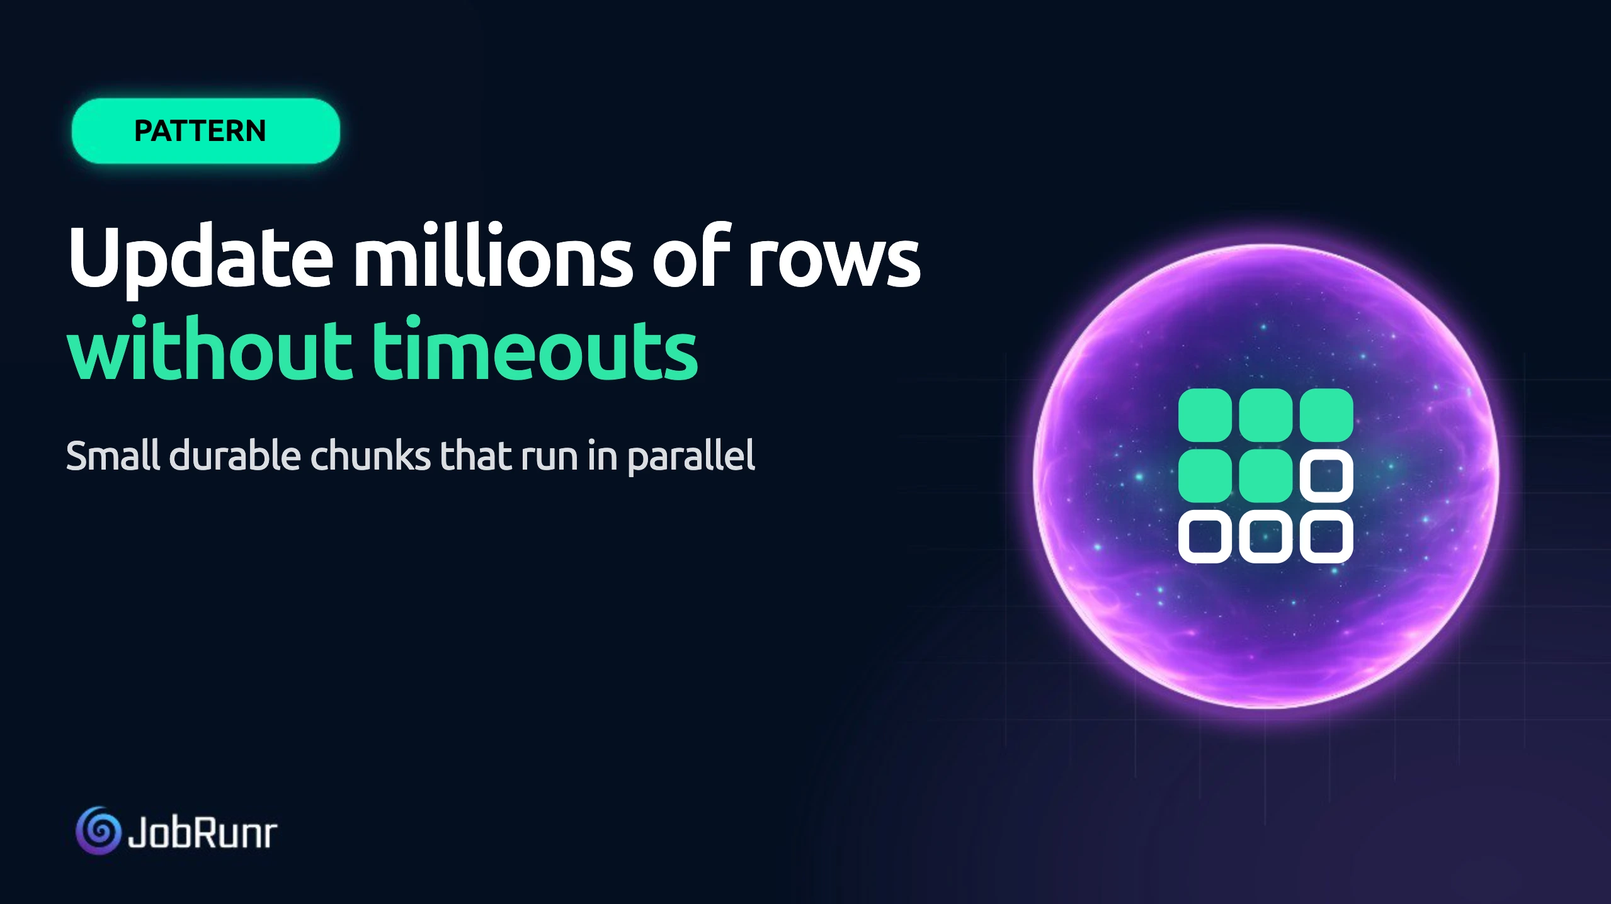
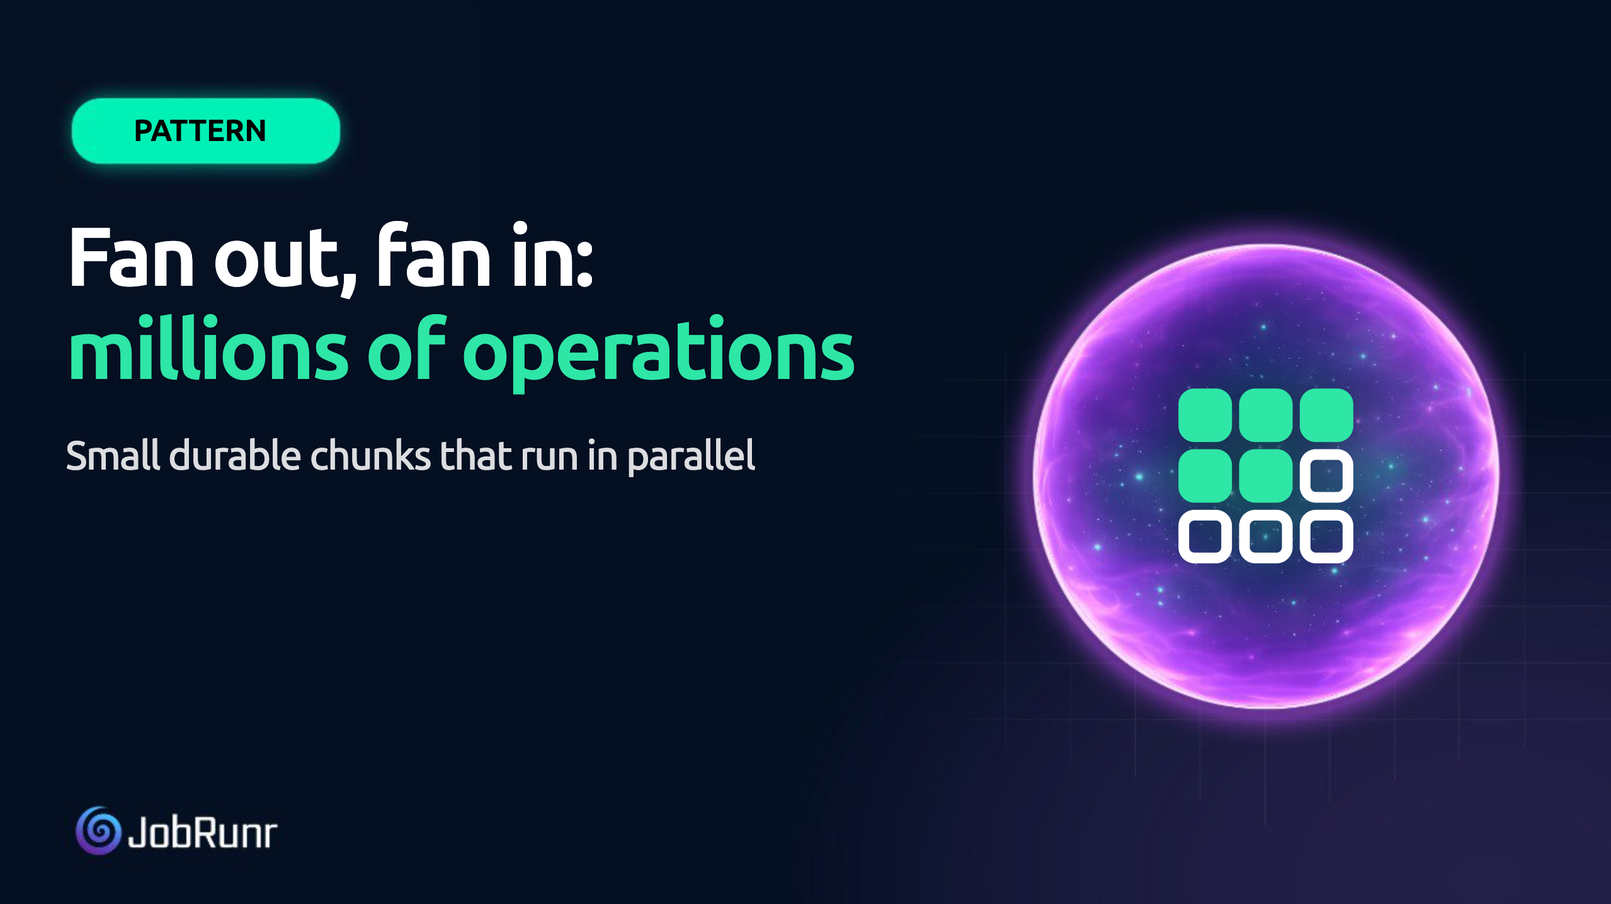
Use cases: rework the three pattern pages (generic titles, challenge as requirements, build-it-yourself with code, benefits list) and new fan out header image

Changed region(s): [[0.0309, 0.2451, 0.5868, 0.429], [0.1235, 0.1226, 0.1544, 0.1532]]

diff --git a/content/english/use-case/pattern-100000-schedules.md b/content/english/use-case/pattern-100000-schedules.md
@@ -1,5 +1,5 @@
 ---
-title: "How to Run 100,000 Customer Schedules That Survive a Server Crash"
+title: "Customer-Defined Recurring Jobs, Created at Runtime"
 author: "Nicholas D'hondt"
 image: /use-case/pattern-recurring-schedules.webp
 summary: "Your customers want their own schedules: a firmware check every hour, a maintenance run every Monday. This pattern stores every schedule in your database, lets one instance plan and all instances work, and keeps going when a server dies."
@@ -11,22 +11,22 @@ tags:
   - use-case
   - pattern
 ---
-> "I need to have 100,000 different schedules for things to happen at regular intervals."
+> "Customer-Defined Recurring Jobs, Created at Runtime"
 
 Sometimes the sentence sounds different. "I need a scheduling engine inside my product for my customers' maintenance schedules." "I need to push firmware and security updates to millions of devices." "I need to defrost the fridges at midnight." In each case, the schedule is data that changes while the application runs.
 
-## The Challenge
+## The challenge
 
-A scheduled thread pool in the JVM works well for tasks you know when you write the code. So does `@Scheduled` in Spring. The number of tasks is not the limit. Both stop working when the schedules belong to your customers, each in its own way:
+A schedule in your code is a fixed thing. You write it once, it ships with the release, and it is the same on every server. A schedule that belongs to a customer is data. Someone creates it on a Tuesday afternoon, changes it a week later and deletes it when the contract ends, all while the application keeps running.
 
-- A scheduled thread pool accepts new tasks at runtime, but it only understands fixed rates and delays. There's no cron syntax and no time zones, so "every day at 9 for a customer in Sydney" is math you do yourself, and daylight saving time breaks it twice a year anyway.
-- Spring's `@Scheduled` supports cron expressions and a time zone, but both are written on an annotation in your code. Your customers can't add a schedule at runtime. You can register tasks with `TaskScheduler` instead, and then you're back to keeping the schedules yourself.
+That changes what the scheduler has to do:
 
-The rest they share:
+- **It has to remember.** A schedule that only lives in memory is gone after a restart or a deployment. Nobody notices until the fridges were not defrosted.
+- **It has to run once.** You run more than one instance, and every instance knows every schedule. With three instances, the customer gets three text messages unless something decides who goes first.
+- **It has to survive crashes.** When an instance crashes, another instance has to pick up its work. Only the run that was interrupted should be done again, not everything else that was handled in the same loop.
+- **It has to understand local time.** "Every day at 9" means 9 in Sydney for one customer and 9 in Brussels for the next, and both shift when daylight saving time starts or ends.
 
-- The schedules live in memory. When the server dies, they are gone, and something has to register them again. Nobody notices until the fridges were not defrosted.
-- Every instance runs every schedule. With three instances, the customer gets three text messages.
-
+Each of these is solvable. The hard part is that they have to hold at the same time, for every schedule, while customers keep changing them.
 
 ## The pattern
 
@@ -53,11 +53,72 @@ public void removeSchedule(String customerId) {
 }
 ```
 
-Because every run is a normal job, it gets the rest for free: retries, a history, and a place in the dashboard. A run that has to reach a million devices can use the [fan out pattern]({{< ref "use-case/pattern-update-millions-of-rows.md" >}}) to split the work.
+A scheduler that only fires a trigger leaves the rest to you. Here every run is a normal job, so each one comes with more than a start time:
+
+- **Retries.** A run that throws an exception is retried automatically, 10 times by default, with exponential back-off. You can [configure the number of retries]({{< ref "documentation/background-methods/dealing-with-exceptions.md#how-to-configure-the-amount-of-retries" >}}).
+- **A dashboard that shows what happened.** JobRunr ships with a [built-in dashboard]({{< ref "documentation/background-methods/dashboard.md" >}}). It lists every schedule and every run, and for each run its state, its attempts and its exceptions. When a firmware update fails, or a server crashes halfway, you open the dashboard and see that the update never happened, for which customer, and why. A run that is out of retries stays in the dashboard as failed until someone retries or deletes it from there. With Pro you can also send job traces to your observability platform through [OpenTelemetry]({{< ref "guides/advanced/observability-tracing.md" >}}) and alert on failures there.
+- **Recovery after a crash.** A run that was busy on an instance that died is picked up by another instance. Nobody has to find out by hand what was running at that moment.
+- **Resuming where it stopped.** A plain loop over a million devices has no memory. When the server crashes at device 600,000, nothing knows where it stopped, so you run the whole loop again or you guess. With the [fan out pattern]({{< ref "use-case/pattern-update-millions-of-rows.md" >}}) the run creates one small job per chunk of devices, and only the chunks that were interrupted are done again. Inside a single job, [durable steps]({{< ref "use-case/pattern-never-charge-twice.md" >}}) skip the steps that already finished.
 
 ## What goes wrong when you build it yourself
 
-You move the schedules to a table and write a loop that checks what is due. Now you need to decide which instance runs that loop, and what happens when that instance disappears. You need to make sure a run is never started twice. You need to decide what happens when a run takes longer than its interval. The architecture works on the whiteboard and then needs a lot of tuning in production.
+Most teams start with what the JVM or the framework already offers. Each option solves one part and leaves the rest to you.
+
+### A scheduled thread pool
+
+```java
+executor.scheduleAtFixedRate(
+    () -> firmwareService.checkAndPush(customerId),
+    delayUntilNineInSydney(), 24, TimeUnit.HOURS);
+```
+
+A `ScheduledExecutorService` accepts new tasks at runtime, and the number of tasks is not the limit. But it only understands fixed rates and delays. There is no cron syntax and no time zone, so "every day at 9 for a customer in Sydney" is math you do yourself. A fixed period of 24 hours also drifts: after a daylight saving change the task runs at 8 or at 10.
+
+### Spring's `@Scheduled`
+
+```java
+@Scheduled(cron = "0 0 9 * * *", zone = "Australia/Sydney")
+public void checkFirmware() {
+    firmwareService.checkAndPush("customer-42");
+}
+```
+
+`@Scheduled` gives you cron expressions and a time zone. Both are written on an annotation, so they are fixed when the application starts. A customer cannot add a schedule from your product, and you cannot write one method per customer.
+
+### `TaskScheduler` and a map
+
+```java
+ScheduledFuture<?> future = taskScheduler.schedule(
+    () -> firmwareService.checkAndPush(customerId),
+    new CronTrigger(cron, zone));
+schedules.put(customerId, future);
+```
+
+With Spring's `TaskScheduler` you get cron, time zones and registration at runtime. Now you are keeping the schedules yourself. The map lives in memory, so after a restart something has to register every schedule again. And every instance holds the same map, so every instance runs every schedule.
+
+### A table and a polling loop
+
+So you move the schedules to a table and write a loop that checks what is due:
+
+```java
+@Scheduled(fixedDelay = 5000)
+public void runDueSchedules() {
+    for (Schedule schedule : scheduleRepository.findDue(Instant.now())) {
+        firmwareService.checkAndPush(schedule.getCustomerId());
+        schedule.setNextRun(nextRunOf(schedule));
+        scheduleRepository.save(schedule);
+    }
+}
+```
+
+The schedules now survive a restart. The loop raises new questions:
+
+- Which instance runs the loop? If all of them do, two instances find the same due schedule and both run it.
+- What happens when that instance disappears? If only one runs the loop, nothing is planned until someone notices.
+- What if the server dies between the work and the `save`? After the restart the schedule is still due, so it runs again.
+- What if one run takes ten minutes? Every schedule behind it in the loop waits, and the next tick may pick up the same schedule while it is still busy.
+
+The architecture works on the whiteboard and then needs a lot of tuning in production.
 
 If you need more than a scheduled thread pool, use a library that already handled those cases.
 

diff --git a/content/english/use-case/pattern-never-charge-twice.md b/content/english/use-case/pattern-never-charge-twice.md
@@ -1,12 +1,12 @@
 ---
-title: "How to Never Charge a Customer Twice When a Server Crashes"
+title: "Multi-Step Jobs That Resume After a Crash"
 author: "Nicholas D'hondt"
 image: /use-case/pattern-crash-recovery.webp
 summary: "A payment job charges the customer, then the server dies before the next step. This pattern stores every completed step in your own database, so another server resumes the job at the step that did not finish."
 description: "An architecture pattern for crash recovery in Java: durable jobs with steps that are stored in your database, so work resumes after an outage without repeating what already succeeded."
 date: 2026-11-12T16:10:00+01:00
 draft: true
-# TODO before publish: 'who runs this' needs a confirmed customer (workshop only had a guess, a prospect showed interest), flip draft.
+# TODO before publish: flip draft.
 tags:
   - use-case
   - pattern
@@ -15,13 +15,18 @@ tags:
 
 The same problem shows up outside payments. After an outage, the system has to recover quickly and continue processing. Work that was running on the server that died has to be picked up by another one. And nobody should have to check by hand what did and did not happen.
 
-## The Challenge
+## The challenge
 
 A real job does more than one thing. It charges the customer, updates the ledger and pays out the merchant. As Murphy's law dictates, the crash will not happen once all your steps are done. It will happen somewhere between charging the customer and paying out the merchant.
 
-A plain background thread makes it worse. Its lifetime is tied to the application, so when the application crashes, the work is gone and nothing remembers it existed.
-
 After the crash you have two bad options. If you run the job again from the top, the customer pays twice. If you do not run it again, the merchant never gets paid.
+
+Getting out of that takes four things:
+
+- **It has to remember the job.** The job has to exist outside the server that runs it. Otherwise the crash takes the job with it.
+- **It has to remember progress.** Knowing that the job exists is not enough. Which steps finished has to be recorded too.
+- **It has to notice the crash.** A dead server does not report that it died. Something else has to see that it went quiet.
+- **It has to resume, not restart.** Another instance continues at the first step that did not finish, and leaves the finished ones alone.
 
 ## The pattern
 
@@ -40,21 +45,76 @@ public void payOut(String orderId, JobContext jobContext) {
 }
 ```
 
-That is the whole change to your code. These are [durable jobs]({{< ref "guides/advanced/durable-executions.md" >}}): there is no workflow server to run and no second system to keep in sync. If a step throws an exception, the job is retried up to the [amount of times that you configure]({{< ref "documentation/background-methods/dealing-with-exceptions.md#how-to-configure-the-amount-of-retries" >}}) with exponential back-off and resumes at that step. If it still fails, it stays visible in the dashboard with its full history until someone decides what to do.
+That is the whole change to your code. These are [durable jobs]({{< ref "guides/advanced/durable-executions.md" >}}), and they come with more than the step markers:
 
-## What goes wrong when you build it yourself
-
-It is expensive to write and maintain. You start with a table that records which steps are done. Then you need retries that work across servers. A way to see which jobs are processing. A way to notice when the server running one of them has gone quiet, so the work can be picked up somewhere else.
-
-And none of that is free to keep. Every time your framework or your database gets a new version, you have to think about all of it again.
-
-Most teams discover the edge cases one incident at a time.
+- **Retries.** If a step throws an exception, the job is retried automatically, 10 times by default, with exponential back-off, and resumes at that step. You can [configure the number of retries]({{< ref "documentation/background-methods/dealing-with-exceptions.md#how-to-configure-the-amount-of-retries" >}}).
+- **A dashboard that shows what happened.** JobRunr ships with a [built-in dashboard]({{< ref "documentation/background-methods/dashboard.md" >}}). After a crash you open the dashboard and see both attempts of the job, the instance that ran each one and the steps it executed. A job that is out of retries stays in the dashboard as failed, with its full history, until someone decides what to do.
+- **Recovery after a crash.** A job that was busy on an instance that died is picked up by another instance. Nobody has to find out by hand what was running at that moment.
+- **No second system.** There is no workflow server to run and no extra store to keep in sync. The jobs and their step markers live in your own database.
 
 ### Is this always 100% safe?
 
- No. A completed step never runs again. But there is a small window between the moment a step did its work and the moment the marker is saved. If the crash happens in that window, the step runs a second time. Every distributed system has this window, a workflow engine included.
+No. A completed step never runs again. But there is a small window between the moment a step did its work and the moment the marker is saved. If the crash happens in that window, the step runs a second time. Every distributed system has this window, a workflow engine included.
 
 You close it yourself in one of two ways. Give the external call an idempotency key, so the payment provider recognises the second attempt. Or record the result in your own tables and check it first: was this transaction already processed? [This article explains how to design for it]({{< ref "blog/Idempotence-in-java-job-scheduling.md" >}}).
+
+## What goes wrong when you build it yourself
+
+Most teams get here in three steps. Each one fixes the previous problem and exposes the next.
+
+### A background thread
+
+```java
+@Async
+public void payOut(String orderId) {
+    paymentGateway.charge(orderId);
+    ledger.book(orderId);
+    payouts.transfer(orderId);
+}
+```
+
+The work runs on a thread of the application, so its lifetime is tied to the application. When the application crashes after `charge`, the work is gone and nothing remembers it existed. The merchant never gets paid, and you find out when they call.
+
+### Store the job and run it again
+
+So you store every payout before you start it, and after a restart you run the unfinished ones again:
+
+```java
+for (Payout payout : payoutRepository.findUnfinished()) {
+    payOut(payout.getOrderId());
+}
+```
+
+Now the job survives the crash. But `payOut` starts at the first line again, so the customer who was already charged is charged a second time.
+
+### Your own progress table
+
+So you record every step:
+
+```java
+public void payOut(String orderId) {
+    if (!steps.isDone(orderId, "charge-customer")) {
+        paymentGateway.charge(orderId);
+        steps.markDone(orderId, "charge-customer");
+    }
+    if (!steps.isDone(orderId, "update-ledger")) {
+        ledger.book(orderId);
+        steps.markDone(orderId, "update-ledger");
+    }
+    // and again for every next step
+}
+```
+
+This is the pattern on this page, written by hand. The code around it is where the work is:
+
+- Who notices that the server running a payout has gone quiet? Something has to watch for it, and tell a dead server apart from a slow one.
+- Who runs the unfinished payouts again? If every instance does it at startup, two instances pick up the same payout.
+- What happens when a step keeps failing? You need retries with back-off, and a limit.
+- How do you see which payouts are stuck, and at which step?
+
+It is expensive to write and maintain. None of it is free to keep either: every time your framework or your database gets a new version, you have to think about all of it again.
+
+Most teams discover the edge cases one incident at a time.
 
 ## What is available in JobRunr?
 
@@ -81,10 +141,6 @@ You close it yourself in one of two ways. Give the external call an idempotency 
 **Where is the state stored?** In the metadata of the job, in the same database row as the job itself. There is no second store.
 
 **How do I know a crashed job was picked up?** The dashboard shows both attempts of the job, with the instance that ran each one and the steps it executed.
-
-## Who runs this
-
-Fincarna explains [how they run background work for banks]({{< ref "use-case/jobrunr-pro-fincarna.md" >}}).
 
 ## Not a fit when
 

diff --git a/content/english/use-case/pattern-update-millions-of-rows.md b/content/english/use-case/pattern-update-millions-of-rows.md
@@ -1,25 +1,30 @@
 ---
-title: "How to Update Millions of Database Rows Without Timeouts"
+title: "Fan Out, Fan In: Millions of Operations in Small, Durable Chunks"
 author: "Nicholas D'hondt"
 image: /use-case/pattern-chunked-database-update.webp
 summary: "One big UPDATE locks tables, hits the statement timeout and rolls back at 80%. This pattern splits the work into small durable chunks that run in parallel, retry on their own and survive a crashed server."
 description: "An architecture pattern for large data migrations and bulk updates in Java: split the work into small durable jobs, run them in parallel, retry each chunk on its own and continue only when all of them succeeded."
 date: 2026-11-12T16:00:00+01:00
 draft: true
-# TODO before publish: get permission to name the two customers behind [Customer A] and [Customer B] in "Who runs this", flip draft.
+# TODO before publish: flip draft.
 tags:
   - use-case
   - pattern
 ---
 > "I need to update millions of rows in a database without the database timing out."
 
-The classic case: you deploy a new version of your software and the JSON stored in every row needs a new structure. You may know the problem in another shape too. A backfill after a schema change. A recalculation for every customer at the end of the month. Billions of small transactions every week that all have to land.
+The classic case: you deploy a new version of your software and the JSON stored in every row needs a new structure. You may know the problem in another shape too. A backfill after a schema change. A recalculation for every customer at the end of the month. Billions of small transactions every week that all have to land. It does not have to be rows either. Millions of devices to update, files to convert or messages to send follow the same shape: too much for one go, and all of it has to finish.
 
-## The Challenge
+## The challenge
 
 One big statement is the obvious first try, and it fails in a predictable way. The transaction holds its locks for minutes, the statement timeout kicks in, and the database rolls back everything it did so far. Your live traffic waits behind those locks in the meantime.
 
-So you split the work and run it on a few threads. That works until the server restarts halfway. Now part of the table is in the new shape, part is in the old shape, and no way to tell where it stopped. 
+Splitting the work into smaller pieces is the obvious answer. It only works when:
+
+- **It has to stay out of the way.** Locks are held for milliseconds, not minutes, so live traffic keeps moving while the work runs.
+- **It has to remember progress.** After a restart, something has to know which pieces are done. Otherwise part of the table is in the new shape, part is in the old shape, and nothing tells you where it stopped.
+- **It has to redo only what failed.** A deadlock in one piece must not roll back the rest.
+- **It has to know when it is finished.** The next step, such as verifying the counts or dropping the old column, may only run when every piece succeeded.
 
 ## The pattern
 
@@ -29,7 +34,7 @@ So you split the work and run it on a few threads. That works until the server r
 2. **Fan out.** Every instance of your application picks up chunk jobs and runs them in parallel. Each chunk is one short transaction, so locks are held for milliseconds. A job is claimed by exactly one worker thread.
 3. **Fan in.** A follow-up job runs once, after all chunks succeeded. This is where you verify the counts, switch the feature flag or drop the old column.
 
-The state of every chunk is stored in your own SQL database, next to your business data. If a chunk fails halfway, its transaction rolls back and only that chunk retries, with exponential back-off. The amount of work you redo after a failure is one chunk, never the whole table. If an instance dies, another instance picks up its chunks. If you need it done sooner, you start another instance.
+The state of every chunk is stored in your own SQL database, next to your business data. If a chunk fails halfway, its transaction rolls back and only that chunk is done again. The amount of work you redo after a failure is one chunk, never the whole table.
 
 ```java
 public void migrateOrders() {
@@ -50,14 +55,58 @@ public void migrate(long fromId, long toId) {
 }
 ```
 
+Every chunk is a normal job, so each one comes with more than its id range:
+
+- **Retries per chunk.** A chunk that throws an exception is retried automatically, 10 times by default, with exponential back-off. You can [configure the number of retries]({{< ref "documentation/background-methods/dealing-with-exceptions.md#how-to-configure-the-amount-of-retries" >}}).
+- **A dashboard that shows what happened.** JobRunr ships with a [built-in dashboard]({{< ref "documentation/background-methods/dashboard.md" >}}). It lists every chunk with its state, its attempts and its exceptions. You open the dashboard and see how far along the work is, which chunks failed and why. A chunk that is out of retries stays in the dashboard as failed until someone retries or deletes it from there.
+- **Recovery after a crash.** If an instance dies, another instance picks up its chunks. Nobody has to find out by hand which ranges were in progress.
+- **More speed by adding instances.** If you need it done sooner, you start another instance. It claims chunks like the others, without any configuration.
+
 ## What goes wrong when you build it yourself
 
-The first version is a loop with a thread pool. Then the list of extras starts to grow:
+Most teams get here in three steps. Each one fixes the previous problem and exposes the next.
 
-- a progress table, so a restart knows where to continue
+### One big statement
+
+```sql
+UPDATE orders SET details = migrate_details(details);
+```
+
+One transaction for the whole table. It holds its locks until it is done, live traffic queues up behind it, and when the statement timeout hits at 80%, the database rolls all of it back.
+
+### A loop with a thread pool
+
+So you split the work and run it on a few threads:
+
+```java
+ExecutorService pool = Executors.newFixedThreadPool(8);
+for (IdRange range : orderRepository.idRangesOf(10_000)) {
+    pool.submit(() -> orderRepository.migrateRange(range.from(), range.to()));
+}
+```
+
+The transactions are short now. That works until the server restarts halfway. The queue of the thread pool lived in memory, so part of the table is migrated, part is not, and there is no way to tell where it stopped.
+
+### Your own progress table
+
+So you record every chunk:
+
+```java
+for (MigrationChunk chunk : chunkRepository.findByStatus(PENDING)) {
+    pool.submit(() -> {
+        orderRepository.migrateRange(chunk.getFromId(), chunk.getToId());
+        chunk.setStatus(DONE);
+        chunkRepository.save(chunk);
+    });
+}
+```
+
+A restart now knows where to continue. The list of extras starts to grow:
+
 - retry logic for the chunk that hit a deadlock
 - a way to spread the work over more than one server without two servers taking the same chunk
 - a way to slow down when the database is busy
+- a way to know that all chunks are done, so the next step can start
 - a screen that shows how far along it is, because someone will ask every hour
 
 Each item is a small project. Together they are a job scheduler that only your team maintains.
